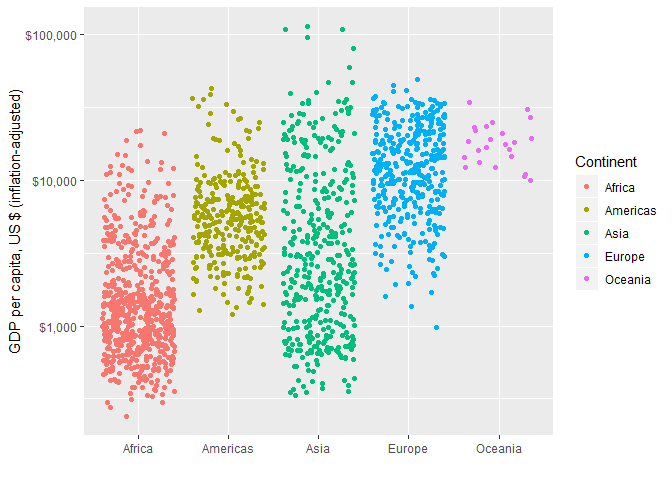
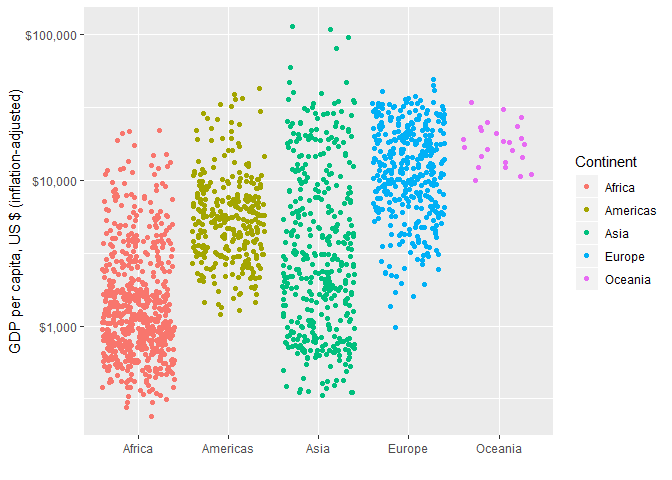
hw03 finished

diff --git a/Assignments/Assignment_03/hw03_dplyr.html b/Assignments/Assignment_03/hw03_dplyr.html
@@ -406,6 +406,7 @@ summary {
                  colour=&quot;Continent&quot;,
                  title=&quot;Minimum and maximum GDP per capita by continent, 1952 to 2007&quot;) +
             facet_wrap(~continent)</code></pre>
+<p>The table and graph here show the minimum and maximum GDP per capita for each continent. The graph has extra information by providing the trend in minimum and maximum GDP per capita over the study period, while the horizontal lines match the table data by showing the absolute minimums and maximums recorded for each continent.</p>
 <div class="twoC">
 <table>
 <thead>
@@ -456,7 +457,7 @@ summary {
 <h5>Look at the spread of GDP per capita within the continents.</h5>
 <pre class="r"><code>o3 &lt;- gapminder %&gt;%
         group_by(continent) %&gt;%
-        summarize(summ=list(c(summary(lifeExp) %&gt;% round(digits=1)))) %&gt;%
+        summarize(summ=list(c(summary(gdpPercap) %&gt;% round(digits=1)))) %&gt;%
         unnest_wider(summ)</code></pre>
 <pre class="r"><code>o3g &lt;- gapminder %&gt;%
   group_by(continent) %&gt;%
@@ -466,6 +467,7 @@ summary {
   labs(x=&quot;&quot;,
        y=&quot;GDP per capita, US $ (inflation-adjusted)&quot;,
        colour=&quot;Continent&quot;)</code></pre>
+<p>The table here shows the statistical summary describing GDP per capita over the 1952 to 2007 period. The graph also illustrates the full range of data plots by using a jittered layout to show every data point in the dataset. The log scale on the graph makes it easier to see detail at the lower end of the y-axis.</p>
 <div class="twoC">
 <table>
 <thead>
@@ -482,52 +484,52 @@ summary {
 <tbody>
 <tr class="odd">
 <td align="left">Africa</td>
-<td align="right">23.6</td>
-<td align="right">42.4</td>
-<td align="right">47.8</td>
-<td align="right">48.9</td>
-<td align="right">54.4</td>
-<td align="right">76.4</td>
+<td align="right">241.2</td>
+<td align="right">761.2</td>
+<td align="right">1192.1</td>
+<td align="right">2193.8</td>
+<td align="right">2377.4</td>
+<td align="right">21951.2</td>
 </tr>
 <tr class="even">
 <td align="left">Americas</td>
-<td align="right">37.6</td>
-<td align="right">58.4</td>
-<td align="right">67.0</td>
-<td align="right">64.7</td>
-<td align="right">71.7</td>
-<td align="right">80.7</td>
+<td align="right">1201.6</td>
+<td align="right">3427.8</td>
+<td align="right">5465.5</td>
+<td align="right">7136.1</td>
+<td align="right">7830.2</td>
+<td align="right">42951.7</td>
 </tr>
 <tr class="odd">
 <td align="left">Asia</td>
-<td align="right">28.8</td>
-<td align="right">51.4</td>
-<td align="right">61.8</td>
-<td align="right">60.1</td>
-<td align="right">69.5</td>
-<td align="right">82.6</td>
+<td align="right">331.0</td>
+<td align="right">1057.0</td>
+<td align="right">2646.8</td>
+<td align="right">7902.2</td>
+<td align="right">8549.3</td>
+<td align="right">113523.1</td>
 </tr>
 <tr class="even">
 <td align="left">Europe</td>
-<td align="right">43.6</td>
-<td align="right">69.6</td>
-<td align="right">72.2</td>
-<td align="right">71.9</td>
-<td align="right">75.5</td>
-<td align="right">81.8</td>
+<td align="right">973.5</td>
+<td align="right">7213.1</td>
+<td align="right">12081.7</td>
+<td align="right">14469.5</td>
+<td align="right">20461.4</td>
+<td align="right">49357.2</td>
 </tr>
 <tr class="odd">
 <td align="left">Oceania</td>
-<td align="right">69.1</td>
-<td align="right">71.2</td>
-<td align="right">73.7</td>
-<td align="right">74.3</td>
-<td align="right">77.6</td>
-<td align="right">81.2</td>
+<td align="right">10039.6</td>
+<td align="right">14141.9</td>
+<td align="right">17983.3</td>
+<td align="right">18621.6</td>
+<td align="right">22214.1</td>
+<td align="right">34435.4</td>
 </tr>
 </tbody>
 </table>
[2 lines of base64/hex data omitted]
 </div>
 <div class="clearer">
 
@@ -591,9 +593,10 @@ o6g &lt;-  df1 %&gt;%
                                 values=c(&quot;darkslategray4&quot;,&quot;firebrick4&quot;,&quot;grey&quot;), #order apprently needs to be in reverse of when called
                                 labels=c(&quot;Kuwait&quot;,&quot;Equatorial Guinea&quot;,&quot;Other&quot;)) + 
             theme_bw() +
-            labs(title=&quot;Kuwait and Equatorial Guinea have had major population \n fluctuations due to armed conflict&quot;, #\n for line break
+            labs(title=&quot;Kuwait and Equatorial Guinea have had major population \n fluctuations due to armed conflict&quot;,
                  x=&quot;&quot;,
                  y=&quot;5-year population change (%)&quot;)</code></pre>
+<p>I looked for patterns in population change by country over the course of the dataset. Equatorial Guinea and Kuwait stood out because they both have periods that rank among the highest and lowest 5-year population changes among all countries. This is due to armed conflict, with Equatorial Guinea having a period of political violence and war in the 1970’s and Kuwait being in conflict with Iraq in the late 1980’s and early 1990’s. The table and graph both show percentage change over 5-year periods.</p>
 <div class="twoC">
 <table>
 <thead>

diff --git a/Assignments/Assignment_03/hw03_dplyr.md b/Assignments/Assignment_03/hw03_dplyr.md
@@ -53,6 +53,8 @@ o2g <- gapminder %>%
             facet_wrap(~continent)
 ```
 
+The table and graph here show the minimum and maximum GDP per capita for each continent. The graph has extra information by providing the trend in minimum and maximum GDP per capita over the study period, while the horizontal lines match the table data by showing the absolute minimums and maximums recorded for each continent.
+
 <div class="twoC">
 
 continent    minGDP   maxGDP
@@ -77,7 +79,7 @@ Oceania       10040    34435
 ```r
 o3 <- gapminder %>%
         group_by(continent) %>%
-        summarize(summ=list(c(summary(lifeExp) %>% round(digits=1)))) %>%
+        summarize(summ=list(c(summary(gdpPercap) %>% round(digits=1)))) %>%
         unnest_wider(summ)
 ```
 
@@ -93,15 +95,18 @@ o3g <- gapminder %>%
        y="GDP per capita, US $ (inflation-adjusted)",
        colour="Continent")
 ```
+
+The table here shows the statistical summary describing GDP per capita over the 1952 to 2007 period. The graph also illustrates the full range of data plots by using a jittered layout to show every data point in the dataset. The log scale on the graph makes it easier to see detail at the lower end of the y-axis.
+
 <div class="twoC">
 
-continent    Min.   1st Qu.   Median   Mean   3rd Qu.   Max.
-----------  -----  --------  -------  -----  --------  -----
-Africa       23.6      42.4     47.8   48.9      54.4   76.4
-Americas     37.6      58.4     67.0   64.7      71.7   80.7
-Asia         28.8      51.4     61.8   60.1      69.5   82.6
-Europe       43.6      69.6     72.2   71.9      75.5   81.8
-Oceania      69.1      71.2     73.7   74.3      77.6   81.2
+continent       Min.   1st Qu.    Median      Mean   3rd Qu.       Max.
+----------  --------  --------  --------  --------  --------  ---------
+Africa         241.2     761.2    1192.1    2193.8    2377.4    21951.2
+Americas      1201.6    3427.8    5465.5    7136.1    7830.2    42951.7
+Asia           331.0    1057.0    2646.8    7902.2    8549.3   113523.1
+Europe         973.5    7213.1   12081.7   14469.5   20461.4    49357.2
+Oceania      10039.6   14141.9   17983.3   18621.6   22214.1    34435.4
 
 ![](hw03_dplyr_files/figure-html/opt_3_output-1.png)<!-- -->
 </div>
@@ -171,10 +176,12 @@ o6g <-  df1 %>%
                                 values=c("darkslategray4","firebrick4","grey"), #order apprently needs to be in reverse of when called
                                 labels=c("Kuwait","Equatorial Guinea","Other")) + 
             theme_bw() +
-            labs(title="Kuwait and Equatorial Guinea have had major population \n fluctuations due to armed conflict", #\n for line break
+            labs(title="Kuwait and Equatorial Guinea have had major population \n fluctuations due to armed conflict",
                  x="",
                  y="5-year population change (%)")
 ```
+
+I looked for patterns in population change by country over the course of the dataset. Equatorial Guinea and Kuwait stood out because they both have periods that rank among the highest and lowest 5-year population changes among all countries. This is due to armed conflict, with Equatorial Guinea having a period of political violence and war in the 1970's and Kuwait being in conflict with Iraq in the late 1980's and early 1990's. The table and graph both show percentage change over 5-year periods.
 
 <div class="twoC">
 
